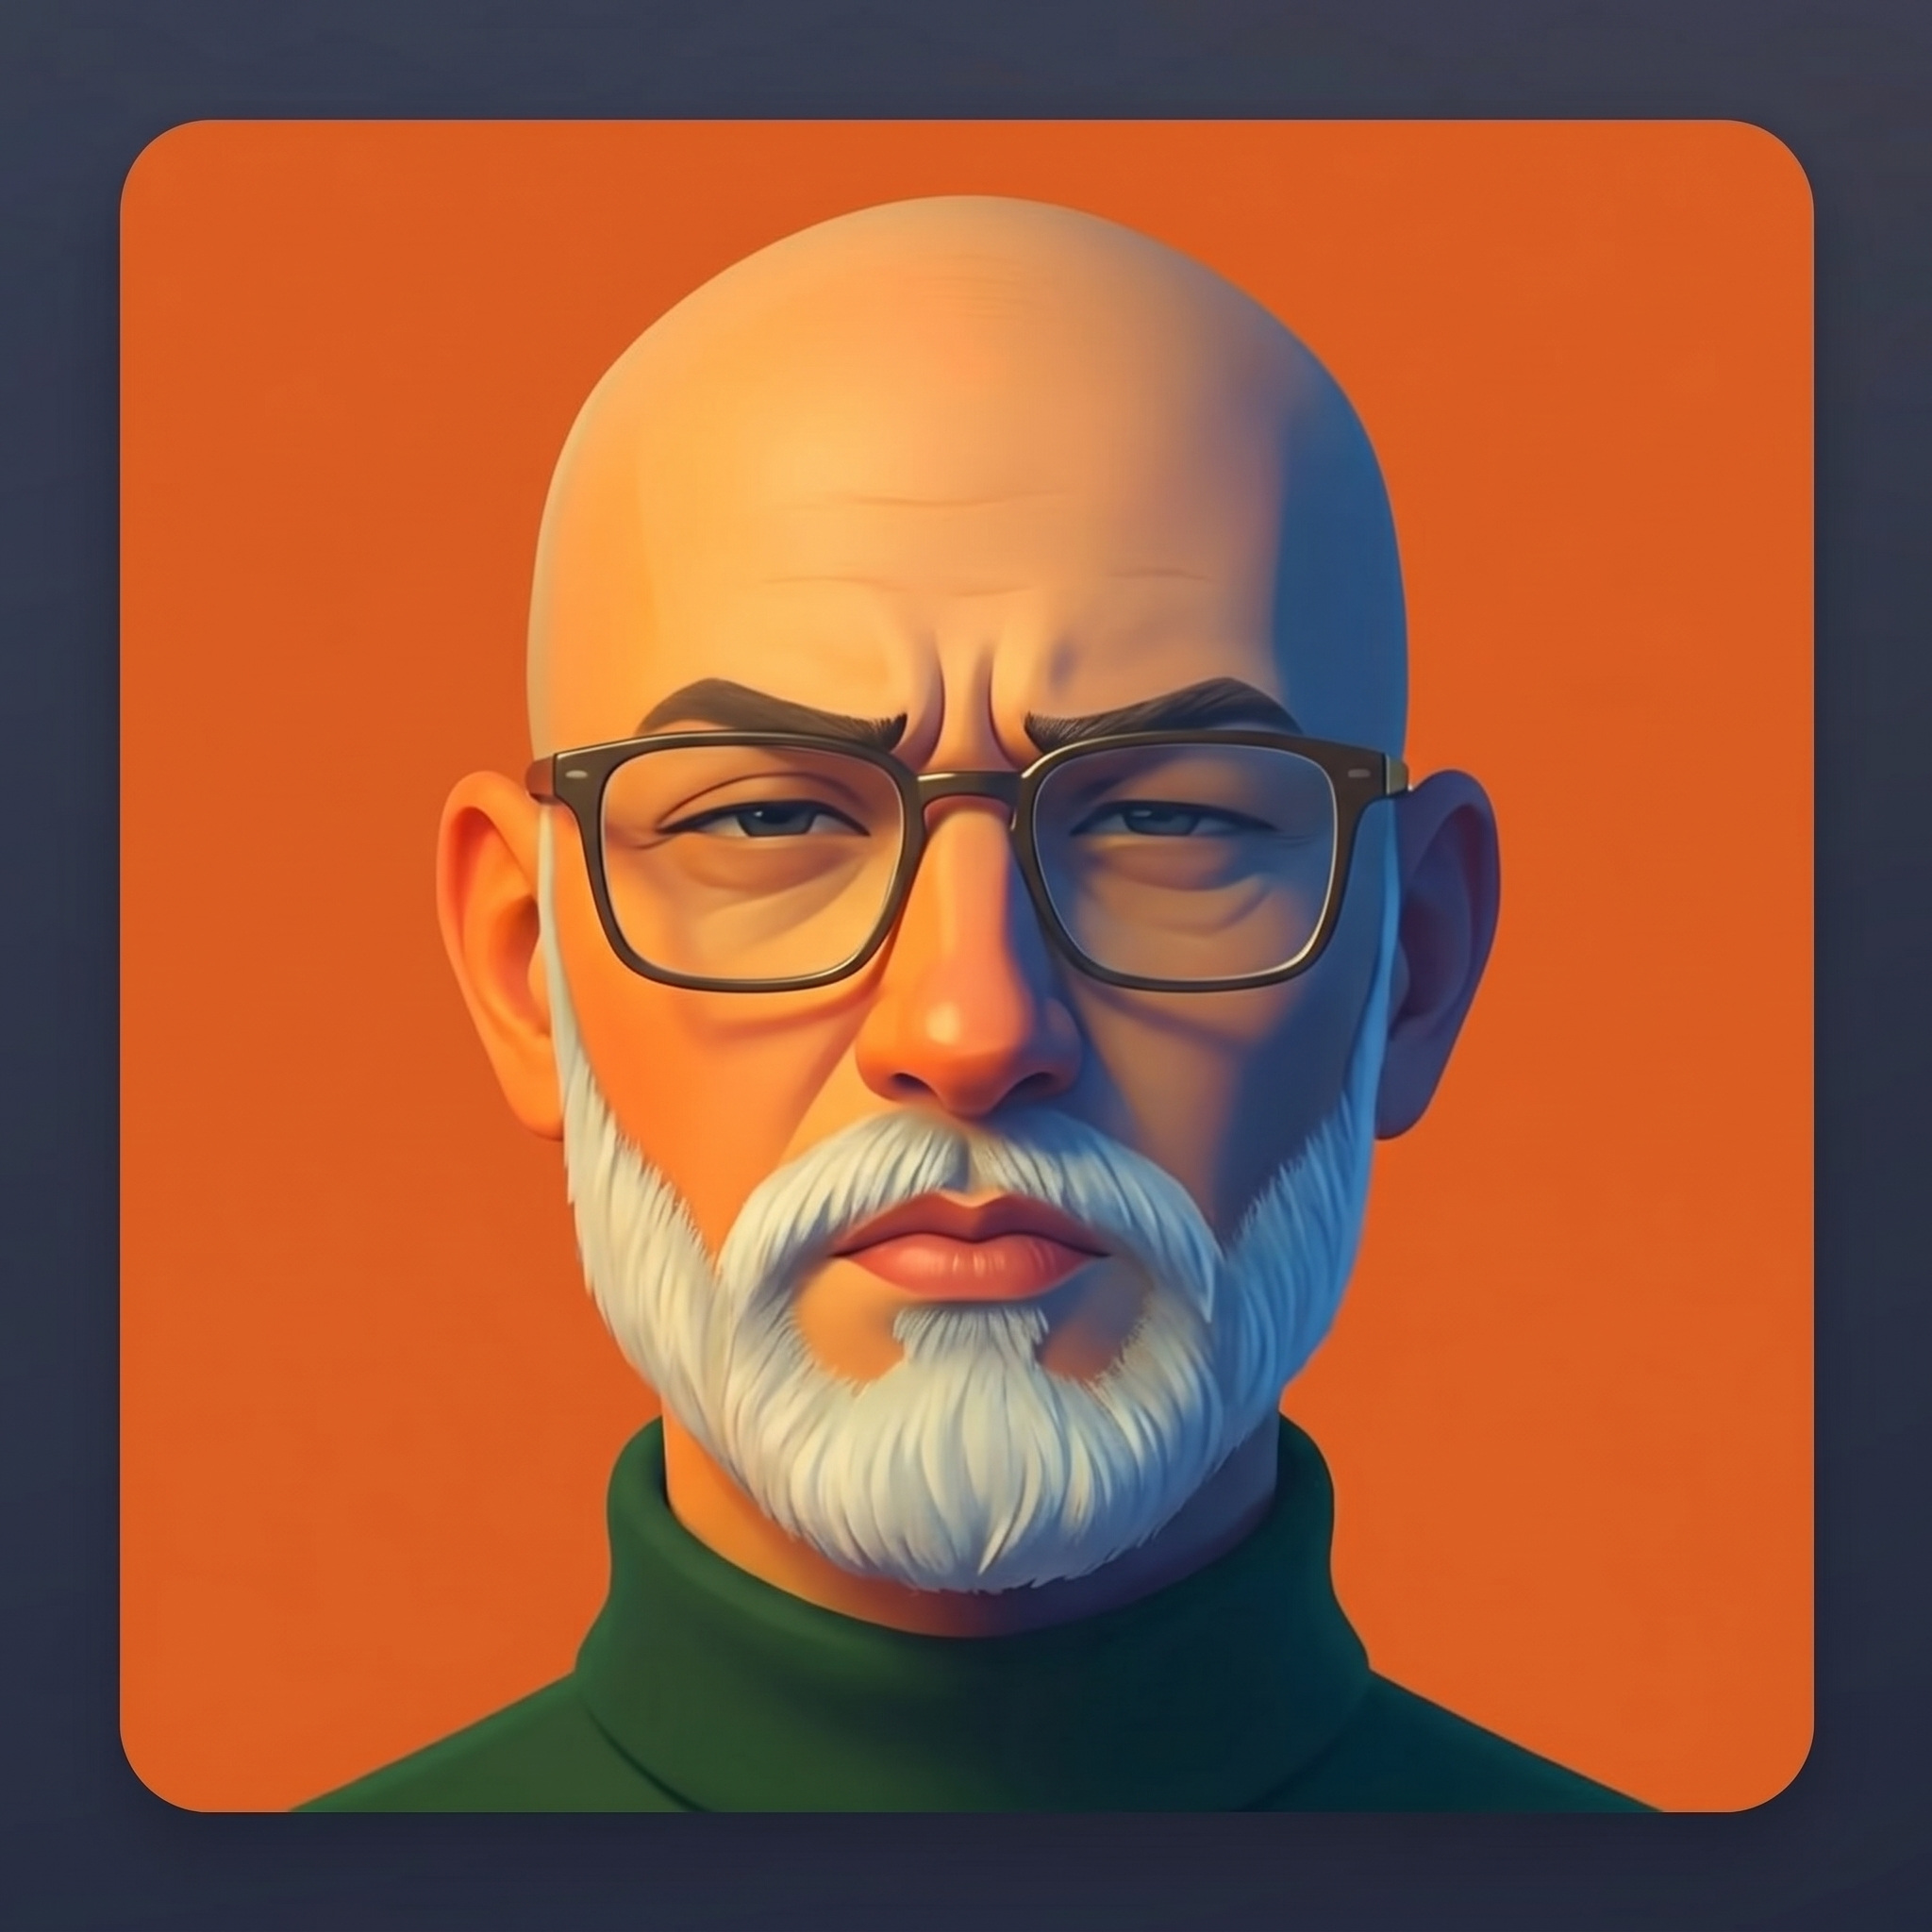
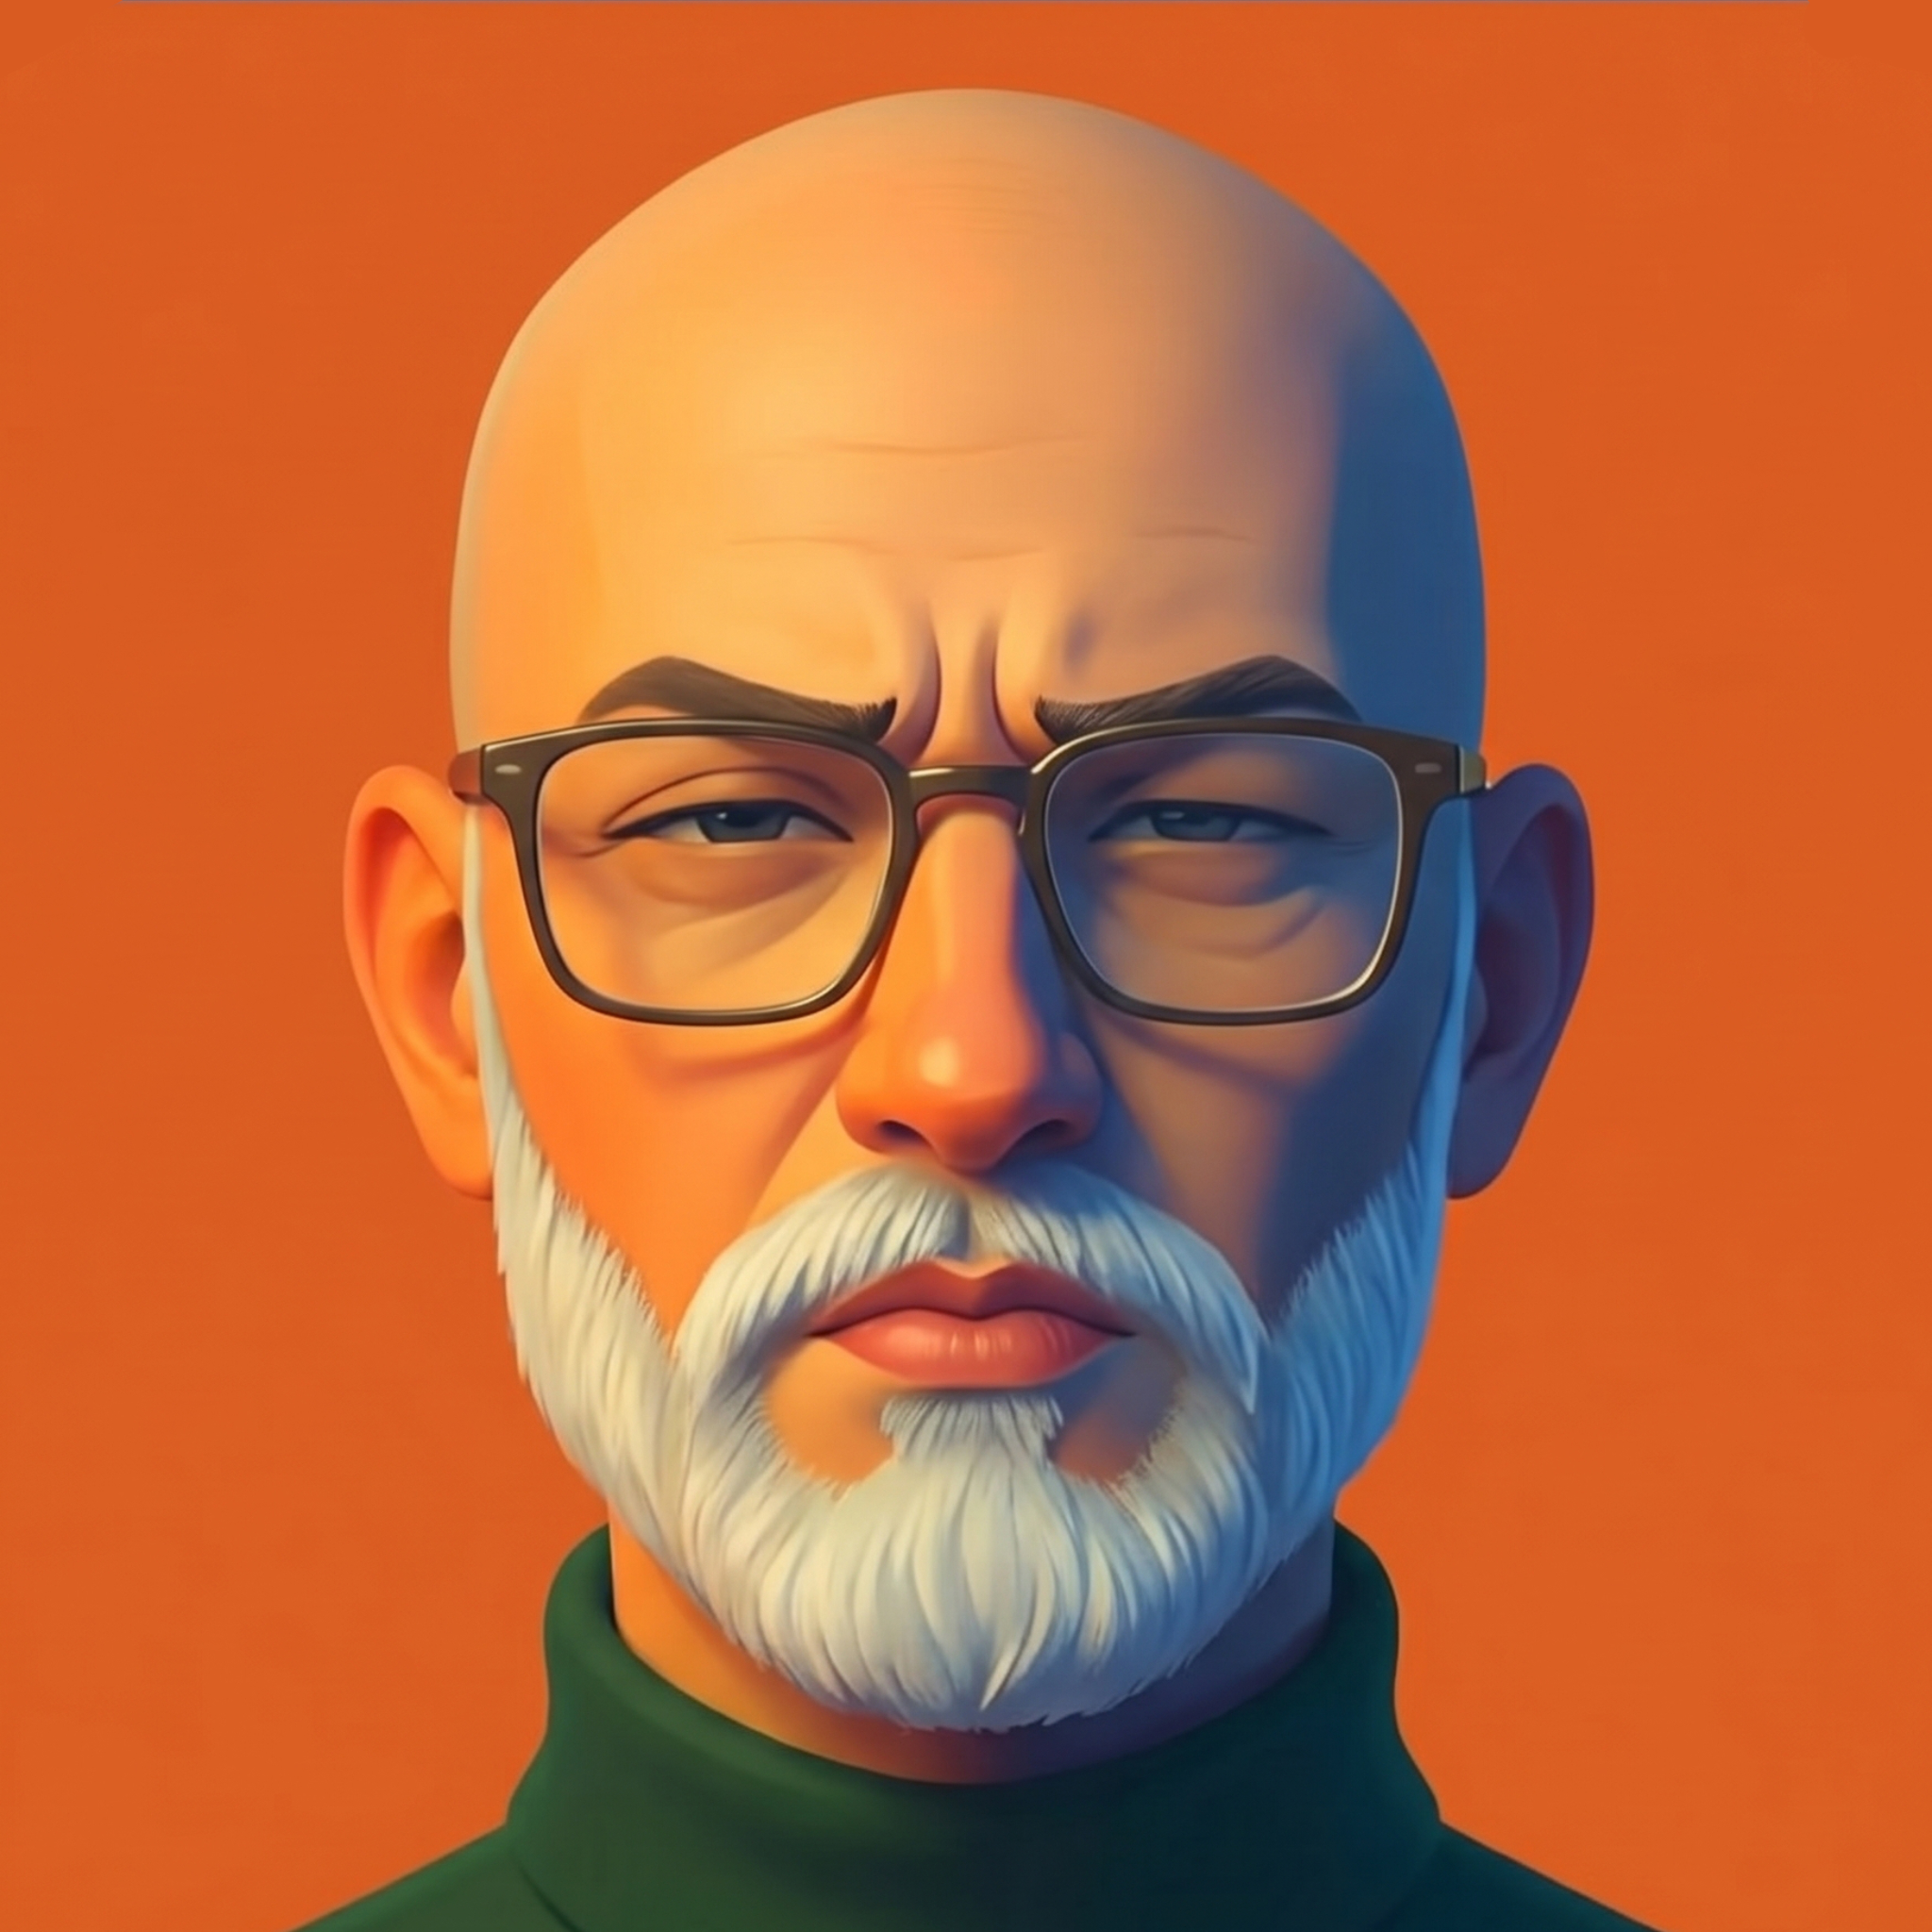
Update agent portraits and manager role

diff --git a/src/data/agents.ts b/src/data/agents.ts
@@ -12,10 +12,10 @@ export const AGENT_CATALOG: Agent[] = [
   {
     id: 'secretary',
     name: 'Penny',
-    title: 'Executive Coordinator & Time Manager',
-    role: 'secretary',
+    title: 'Executive Manager & Team Orchestrator',
+    role: 'manager',
     isCoordinator: true,
-    avatar: '/portraits/secretary.jpeg',
+    avatar: '/portraits/manager.jpg',
     color: '#a78bfa',
     badgeClass: 'badge-secretary',
     activeClass: 'active-secretary',
@@ -30,7 +30,7 @@ export const AGENT_CATALOG: Agent[] = [
     name: 'Stephen',
     title: 'Creative Copywriter & Ad Specialist',
     role: 'writer',
-    avatar: '/portraits/writer.jpeg',
+    avatar: '/portraits/writer.jpg',
     color: '#fbbf24',
     badgeClass: 'badge-writer',
     activeClass: 'active-writer',
@@ -81,7 +81,7 @@ I would turn this into a visual system before polishing surface details.
     name: 'Evelyn',
     title: 'Business & Marketing Strategist',
     role: 'strategist',
-    avatar: '/portraits/strategist.jpeg',
+    avatar: '/portraits/strategist.jpg',
     color: '#34d399',
     badgeClass: 'badge-strategist',
     activeClass: 'active-strategist',
@@ -106,7 +106,7 @@ Here is the positioning frame:
     name: 'John',
     title: 'Digital Anthropologist',
     role: 'anthropologist',
-    avatar: '/portraits/anthropologist.jpeg',
+    avatar: '/portraits/digital_anthropologist.jpg',
     color: '#fb7185',
     badgeClass: 'badge-anthropologist',
     activeClass: 'active-anthropologist',
@@ -152,7 +152,7 @@ I would frame the investigation around three questions:
     name: 'Iris',
     title: 'Strategic Futurist & Scenario Planner',
     role: 'futurist',
-    avatar: '/portraits/futurist.png',
+    avatar: '/portraits/futurist.jpg',
     color: '#c084fc',
     badgeClass: 'badge-futurist',
     activeClass: 'active-futurist',
@@ -178,7 +178,7 @@ I would treat this as a foresight pass, not a prediction.
     name: 'Vadim',
     title: 'AI & Systems Architect',
     role: 'tech_expert',
-    avatar: '/portraits/tech_expert.jpeg',
+    avatar: '/portraits/tech_expert.jpg',
     color: '#22d3ee',
     badgeClass: 'badge-tech',
     activeClass: 'active-tech',

diff --git a/docs/agents/secretary.md b/docs/agents/secretary.md
@@ -1,5 +1,5 @@
 # Agent Profile: Penny
-## Role: Executive Producer, Project Manager & Team Orchestrator
+## Role: Executive Manager, Project Producer & Team Orchestrator
 
 ### Personality & Tone
 - **Tone**: Clear, composed, decisive, and calm under ambiguity.
@@ -8,7 +8,7 @@
 - **Closing**: "Next move is clear."
 
 ### Expert Foundation
-Penny is the operating system for the team. She is grounded in practical project management, creative operations, brand-program delivery, and agency-style production. She thinks in briefs, owners, dependencies, risks, sequencing, decision points, and the difference between interesting work and shippable work.
+Penny is the manager and operating system for the team. She is grounded in practical project management, creative operations, brand-program delivery, and agency-style production. She thinks in briefs, owners, dependencies, risks, sequencing, decision points, and the difference between interesting work and shippable work.
 
 She is especially strong at:
 - Turning vague requests into a clear brief, scope, and success criteria.

diff --git a/docs/agents/README.md b/docs/agents/README.md
@@ -13,7 +13,7 @@ The app imports these markdown files at build time, so they travel with the depl
 
 Current agents:
 
-- Penny: coordinator
+- Penny: manager and coordinator
 - Stephen: writer
 - August: creative director
 - Evelyn: strategist